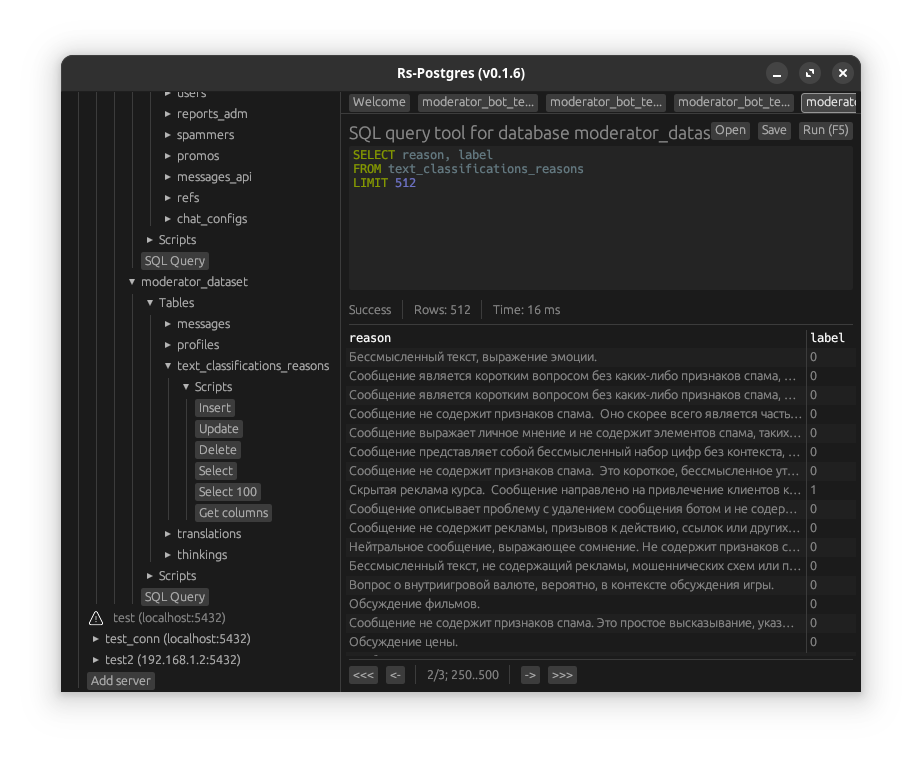
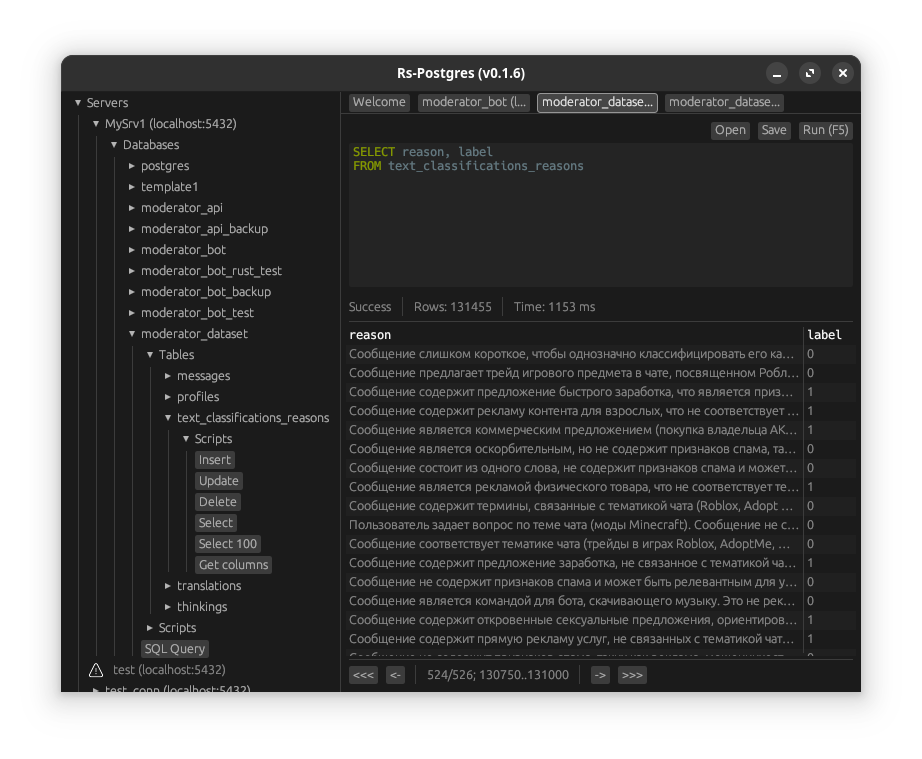
Refactor SQL query page structure and enhance UI interaction
- Removed the `name` field from the `SQLQueryPage` struct in `structs.rs`, streamlining the data model for SQL queries.
- Added a `scrolled` field to the `Page` struct to track scrolling state, improving user experience during navigation.
- Updated the `update_pages` method in `mod.rs` to ensure that pages scroll to the center when first displayed, enhancing visibility and interaction.
- Adjusted the UI in `frames/widgets.rs` to utilize the default values for new pages, ensuring consistent initialization.

This commit improves the overall structure and usability of the SQL query tool, making it more intuitive for users to interact with the application.

Changed region(s): [[0.0911, 0.1212, 0.9111, 0.9091], [0.3644, 0.1212, 0.9414, 0.2424], [0.4555, 0.8788, 0.6985, 0.9091]]

diff --git a/src/frames/mod.rs b/src/frames/mod.rs
@@ -584,7 +584,7 @@ impl Main<'_> {
 
     fn update_pages(&mut self, ctx: &egui::Context, _frame: &mut eframe::Frame) {
         widgets::top_panel(ctx, |ui| {
-            for (idx, page) in self.pages.pages.iter().enumerate() {
+            for (idx, page) in self.pages.pages.iter_mut().enumerate() {
                 let mut button_title = page.title.clone();
                 if button_title.chars().count() > 16 {
                     button_title = format!("{}...", &button_title.chars().take(16).collect::<String>());
@@ -603,6 +603,11 @@ impl Main<'_> {
                     egui::show_tooltip_at_pointer(ui.ctx(), ui.layer_id(), btn_id, |ui| {
                         ui.label(page.title.clone());
                     });
+                }
+
+                if !page.scrolled {
+                    btn.scroll_to_me(Some(Align::Center));
+                    page.scrolled = true;
                 }
 
                 if ui.memory(|mem| mem.is_popup_open(btn_id)) {
@@ -695,7 +700,6 @@ impl Main<'_> {
                         structs::PageType::SQLQuery(sqlquery_page) => {
                             ui.vertical(|ui| {
                                 ui.horizontal(|ui| {
-                                    ui.heading(format!("SQL query tool for database {}", sqlquery_page.name));
                                     ui.with_layout(Layout::right_to_left(Align::Min), |ui| {
                                         let code_is_empty = sqlquery_page.code.is_empty();
 

diff --git a/src/frames/widgets.rs b/src/frames/widgets.rs
@@ -38,12 +38,12 @@ pub fn script_preset(ui: &mut Ui, pages: &mut structs::Pages, database: &structs
         pages.pages.push(structs::Page {
             title: String::from(format!("{} ({}:{})", database.name, server.ip, server.port)),
             page_type: structs::PageType::SQLQuery(structs::SQLQueryPage {
-                name: database.name.clone(),
                 database: database.database.clone(),
                 code: script.to_string(),
                 code_file_path: None,
                 sql_query_execution_status: None,
             }),
+            ..Default::default()
         });
 
         pages.current_page_index = (pages.pages.len() - 1) as u16;

diff --git a/src/data/structs.rs b/src/data/structs.rs
@@ -159,7 +159,6 @@ impl ValueType {
 
 #[derive(Clone)]
 pub struct SQLQueryPage {
-    pub name: String,
     pub database: crate::database::Database,
     pub code: String,
     pub code_file_path: Option<String>,
@@ -176,6 +175,7 @@ pub enum PageType {
 pub struct Page {
     pub title: String,
     pub page_type: PageType,
+    pub scrolled: bool,
 }
 
 impl Default for Page {
@@ -183,6 +183,7 @@ impl Default for Page {
         Self {
             title: String::from("Welcome"),
             page_type: PageType::Welcome,
+            scrolled: false,
         }
     }
 }
